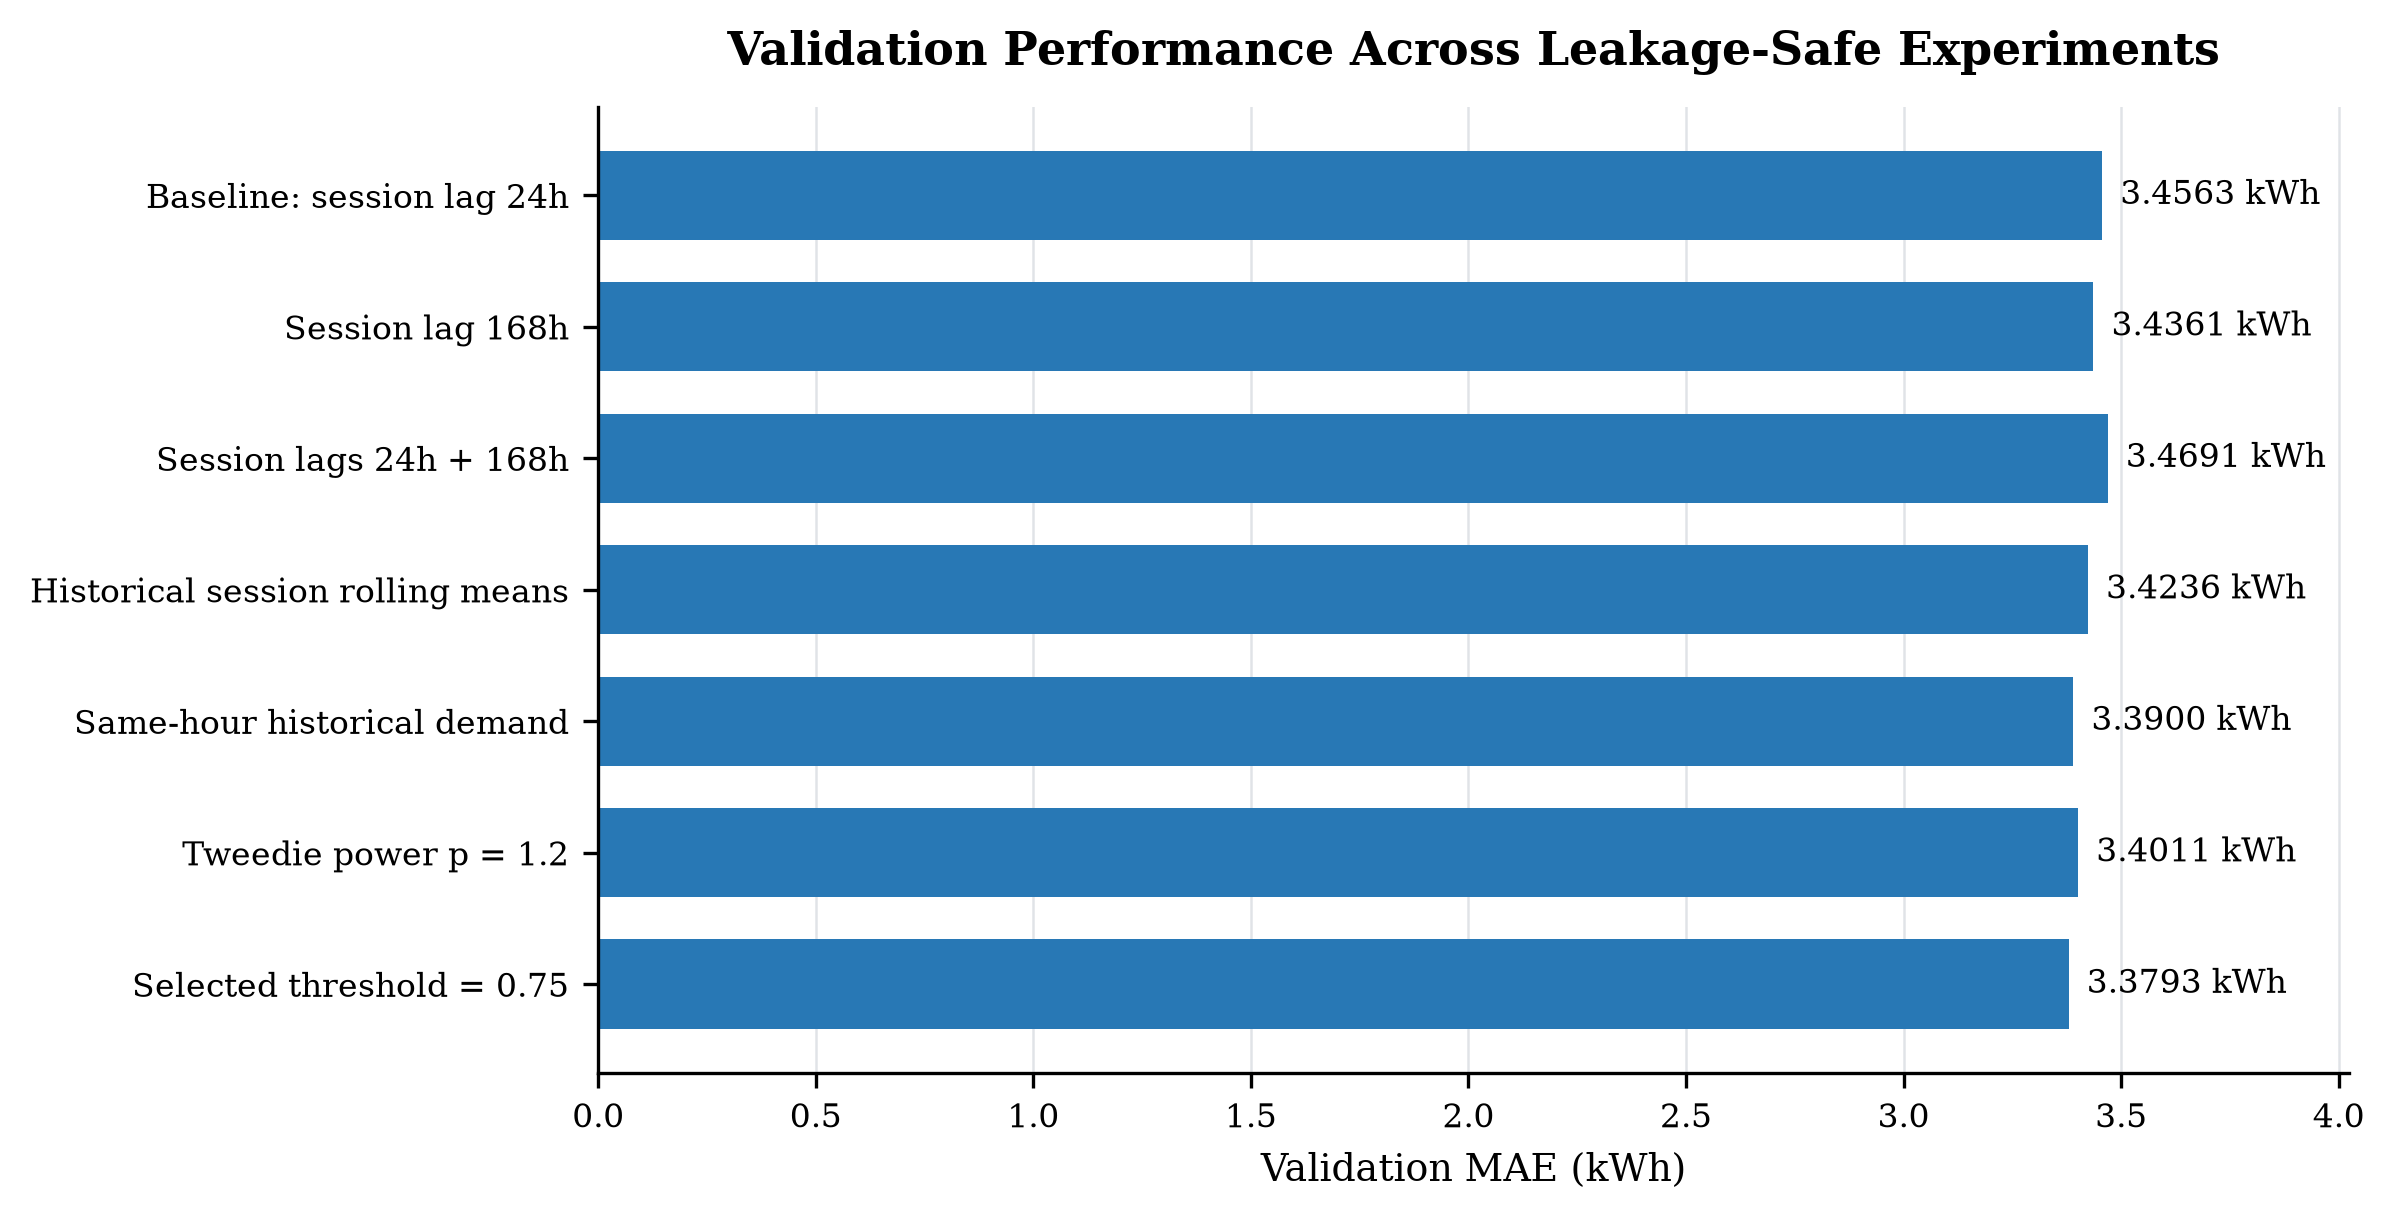
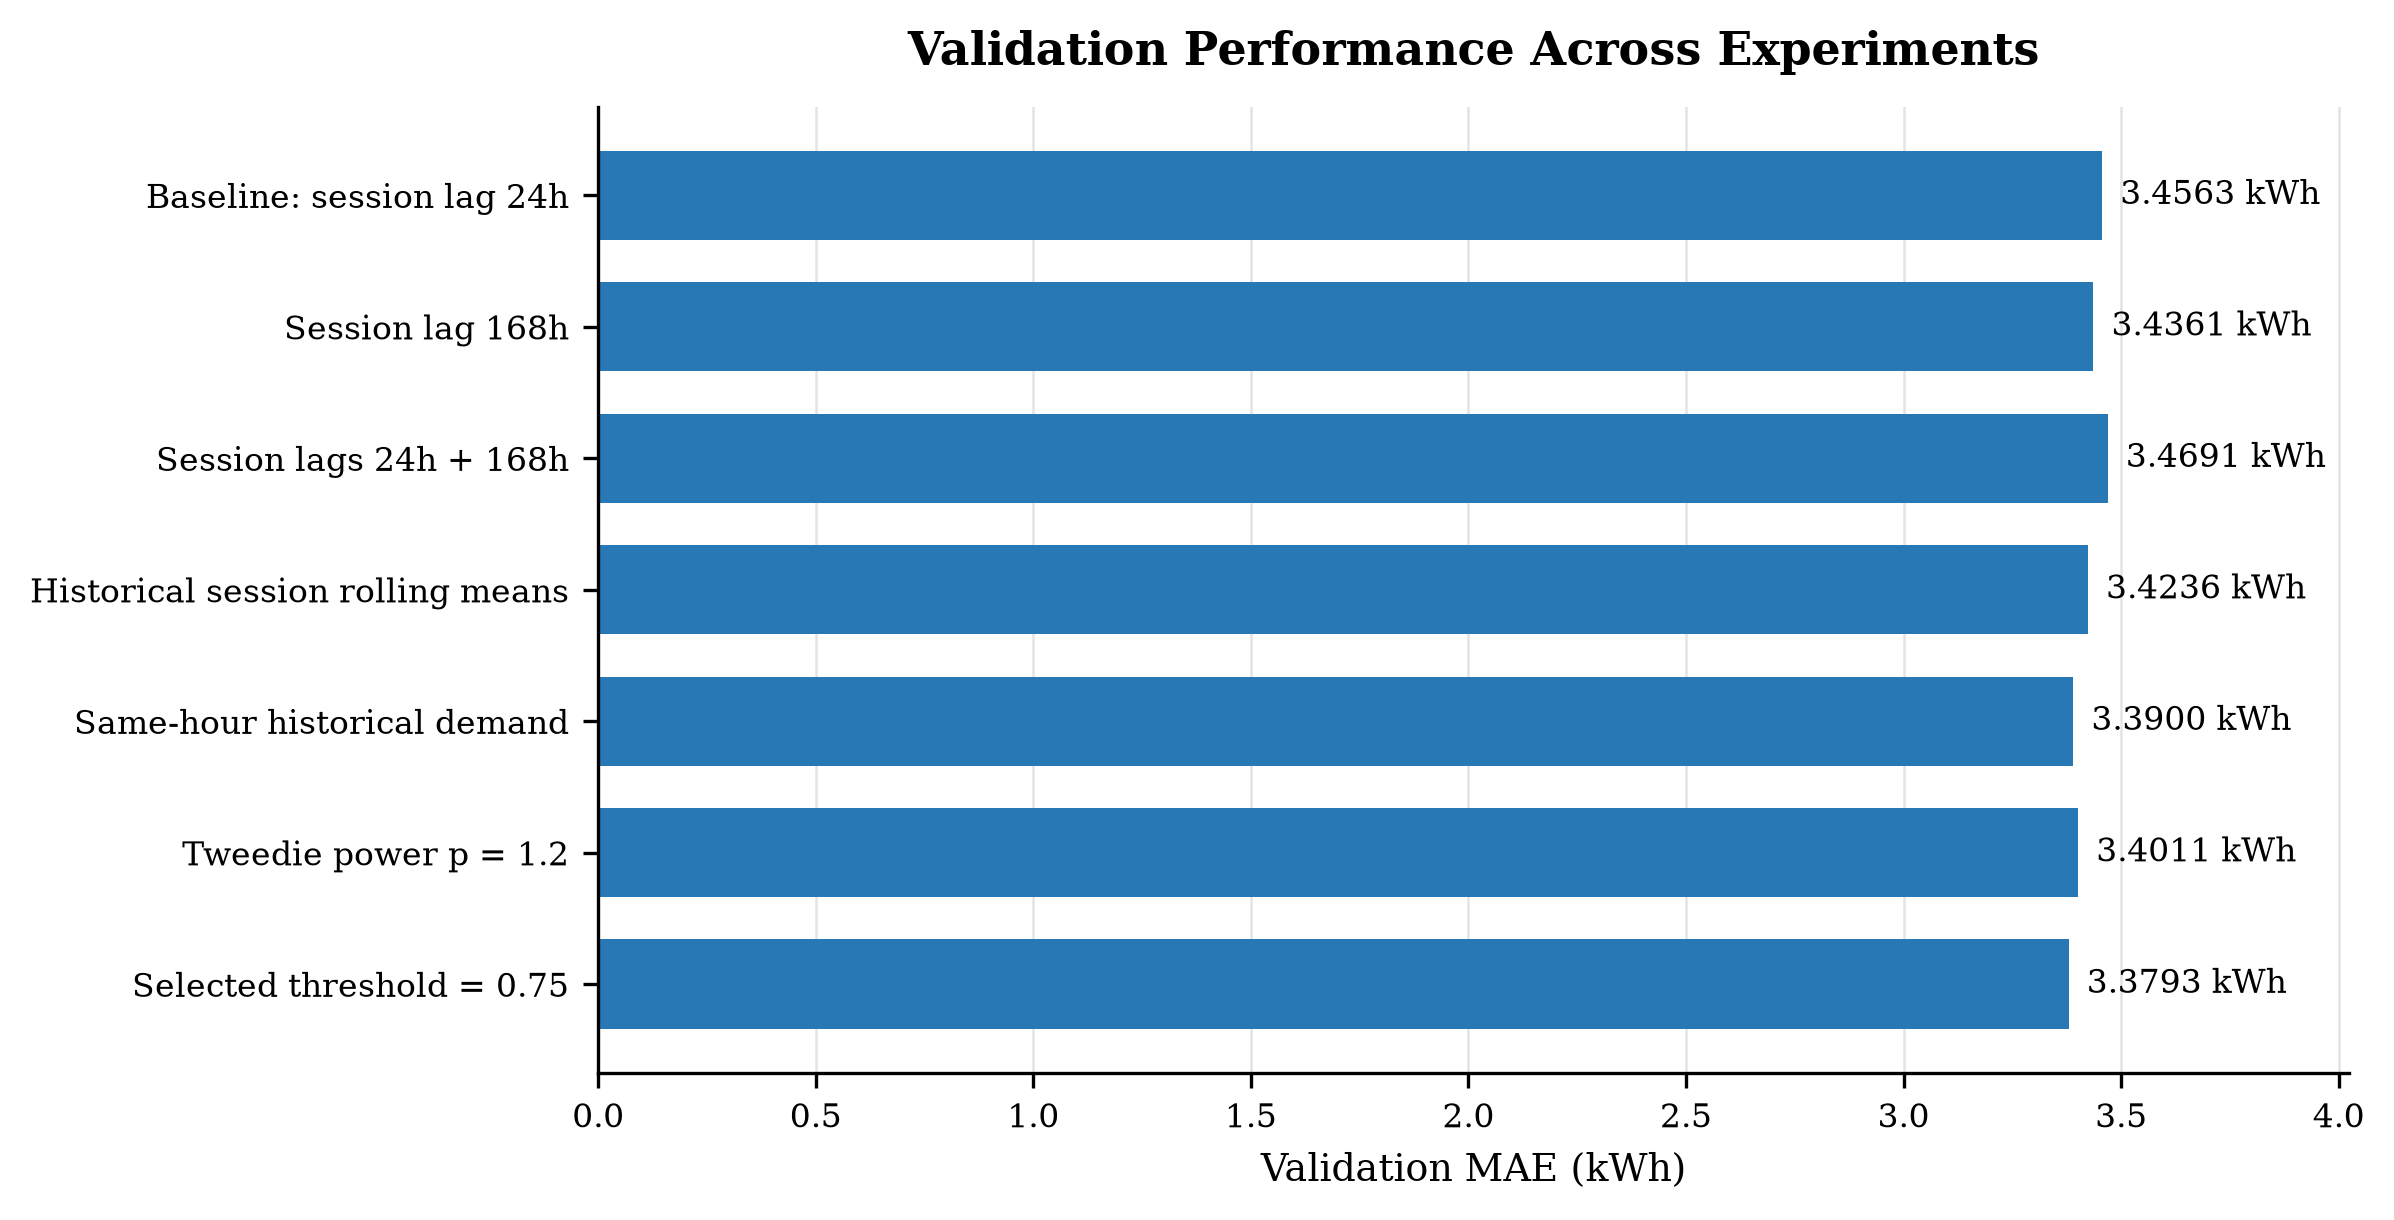
update: update graphs

Changed region(s): [[0.3091, 0.0, 0.9273, 0.0623]]

diff --git a/experiments/plot_updated_figures.py b/experiments/plot_updated_figures.py
@@ -1,4 +1,4 @@
-"""Create publication-ready figures from saved leakage-safe experiment results."""
+"""Create publication-ready figures from saved experiment results."""
 
 import csv
 import json
@@ -126,14 +126,14 @@ def figure_1_experiment_comparison(table):
     _metric_bars(
         mae_rows,
         "Validation MAE (kWh)",
-        "Validation Performance Across Leakage-Safe Experiments",
+        "Validation Performance Across Experiments",
         "fig1_validation_experiment_mae.png",
         "kWh",
     )
     _metric_bars(
         rmse_rows,
         "Validation RMSE (kWh)",
-        "Validation RMSE Across Leakage-Safe Experiments",
+        "Validation RMSE Across Experiments",
         "fig1b_validation_experiment_rmse.png",
         "kWh",
     )
@@ -172,7 +172,7 @@ def figure_2_final_vs_baseline():
                 fontsize=8,
             )
     fig.suptitle(
-        "Final Leakage-Safe Model vs 24h Baseline (Untouched Test)",
+        "Final Model vs 24h Baseline",
         y=1.03,
         fontsize=11,
         weight="bold",
@@ -224,7 +224,7 @@ def figure_3_feature_importance():
     ax.set_yticks(positions, labels)
     ax.set_xlabel("Normalized gain importance (%)")
     ax.set_title(
-        "Final Leakage-Safe Hurdle-XGBoost Feature Importance",
+        "Final Hurdle-XGBoost Feature Importance",
         pad=10,
         weight="bold",
     )
@@ -274,7 +274,7 @@ untouched test set was not rescored.
 
 | Figure filename | What it shows | Exact source data | Split / model | Replaces old paper figure? |
 |---|---|---|---|---|
-| `fig1_validation_experiment_mae.png` | Validation MAE for the seven supplied leakage-safe experiment configurations. | `../experiment_table.csv` (`MAE` rows: `baseline_24h`, `session_168h`, `session_24_168`, `session_roll_means`, `same_hour_demand`, `tweedie_power_1.2`, `threshold_tuned`). | Chronological validation; contains candidate experiments, not solely the final model. | No; experiment comparison. |
+| `fig1_validation_experiment_mae.png` | Validation MAE for the seven supplied experiment configurations. | `../experiment_table.csv` (`MAE` rows: `baseline_24h`, `session_168h`, `session_24_168`, `session_roll_means`, `same_hour_demand`, `tweedie_power_1.2`, `threshold_tuned`). | Chronological validation; contains candidate experiments, not solely the final model. | No; experiment comparison. |
 | `fig1b_validation_experiment_rmse.png` | Validation RMSE for the same seven configurations. | `../experiment_table.csv` (`RMSE` for the same rows). | Chronological validation; candidate experiments. | No; supplementary experiment comparison. |
 | `fig2_final_model_vs_baseline_test.png` | Separate MAE, RMSE and WAPE panels for the 24h baseline and selected model. | `../final/metrics.json`: saved baseline values and `test_metrics`. | Baseline values previously reported; final selected model, untouched test. | Yes; use for any old final-model-vs-baseline test-performance figure. |
 | `fig3_feature_importance_updated.png` | Grouped Stage 1/Stage 2 normalized gain for important demand, session-arrival and same-hour features. Every final `sessions_started*` and `same_hour_*` feature is included. | `../final/feature_importance.json`. | Final selected Hurdle-XGBoost; importance from final trained models. | **Yes; replaces old Figure 3.** |
@@ -295,7 +295,7 @@ show saved aggregate metrics and importance only.
 ## Old paper figures
 
 - **Replace Figure 3**: its cited contemporaneous `sessions_started`
-  importance is invalid for the leakage-safe model.
+  importance is invalid for the model.
 - **Replace old final-model test/error plots** with Figures 2 and 4 when they
   describe the superseded model.
 - **Old Figure 2 (temporal CV) must not be reused as new-model validation.**
@@ -321,7 +321,7 @@ show saved aggregate metrics and importance only.
   historical rolling features. It excludes contemporaneous `sessions_started`.
 - Figure 1 / 1b show validation scores; Figures 2 / 4 show test metrics. The
   split types are not combined on one graph.
-- `data.ipynb` contains leakage-safe updated feature-building code, but its
+- `data.ipynb` contains updated feature-building code, but its
   stored outputs still show a `sessions_started` column. Re-execute/clear those
   stale notebook outputs before using them as evidence.
 - Do not cite the old `hurdle_model_cv.ipynb` output as the final selected

diff --git a/experiments/results/figures_updated/README.md b/experiments/results/figures_updated/README.md
@@ -8,7 +8,7 @@ untouched test set was not rescored.
 
 | Figure filename | What it shows | Exact source data | Split / model | Replaces old paper figure? |
 |---|---|---|---|---|
-| `fig1_validation_experiment_mae.png` | Validation MAE for the seven supplied leakage-safe experiment configurations. | `../experiment_table.csv` (`MAE` rows: `baseline_24h`, `session_168h`, `session_24_168`, `session_roll_means`, `same_hour_demand`, `tweedie_power_1.2`, `threshold_tuned`). | Chronological validation; contains candidate experiments, not solely the final model. | No; experiment comparison. |
+| `fig1_validation_experiment_mae.png` | Validation MAE for the seven supplied experiment configurations. | `../experiment_table.csv` (`MAE` rows: `baseline_24h`, `session_168h`, `session_24_168`, `session_roll_means`, `same_hour_demand`, `tweedie_power_1.2`, `threshold_tuned`). | Chronological validation; contains candidate experiments, not solely the final model. | No; experiment comparison. |
 | `fig1b_validation_experiment_rmse.png` | Validation RMSE for the same seven configurations. | `../experiment_table.csv` (`RMSE` for the same rows). | Chronological validation; candidate experiments. | No; supplementary experiment comparison. |
 | `fig2_final_model_vs_baseline_test.png` | Separate MAE, RMSE and WAPE panels for the 24h baseline and selected model. | `../final/metrics.json`: saved baseline values and `test_metrics`. | Baseline values previously reported; final selected model, untouched test. | Yes; use for any old final-model-vs-baseline test-performance figure. |
 | `fig3_feature_importance_updated.png` | Grouped Stage 1/Stage 2 normalized gain for important demand, session-arrival and same-hour features. Every final `sessions_started*` and `same_hour_*` feature is included. | `../final/feature_importance.json`. | Final selected Hurdle-XGBoost; importance from final trained models. | **Yes; replaces old Figure 3.** |
@@ -29,7 +29,7 @@ show saved aggregate metrics and importance only.
 ## Old paper figures
 
 - **Replace Figure 3**: its cited contemporaneous `sessions_started`
-  importance is invalid for the leakage-safe model.
+  importance is invalid for the model.
 - **Replace old final-model test/error plots** with Figures 2 and 4 when they
   describe the superseded model.
 - **Old Figure 2 (temporal CV) must not be reused as new-model validation.**
@@ -55,7 +55,7 @@ show saved aggregate metrics and importance only.
   historical rolling features. It excludes contemporaneous `sessions_started`.
 - Figure 1 / 1b show validation scores; Figures 2 / 4 show test metrics. The
   split types are not combined on one graph.
-- `data.ipynb` contains leakage-safe updated feature-building code, but its
+- `data.ipynb` contains updated feature-building code, but its
   stored outputs still show a `sessions_started` column. Re-execute/clear those
   stale notebook outputs before using them as evidence.
 - Do not cite the old `hurdle_model_cv.ipynb` output as the final selected
